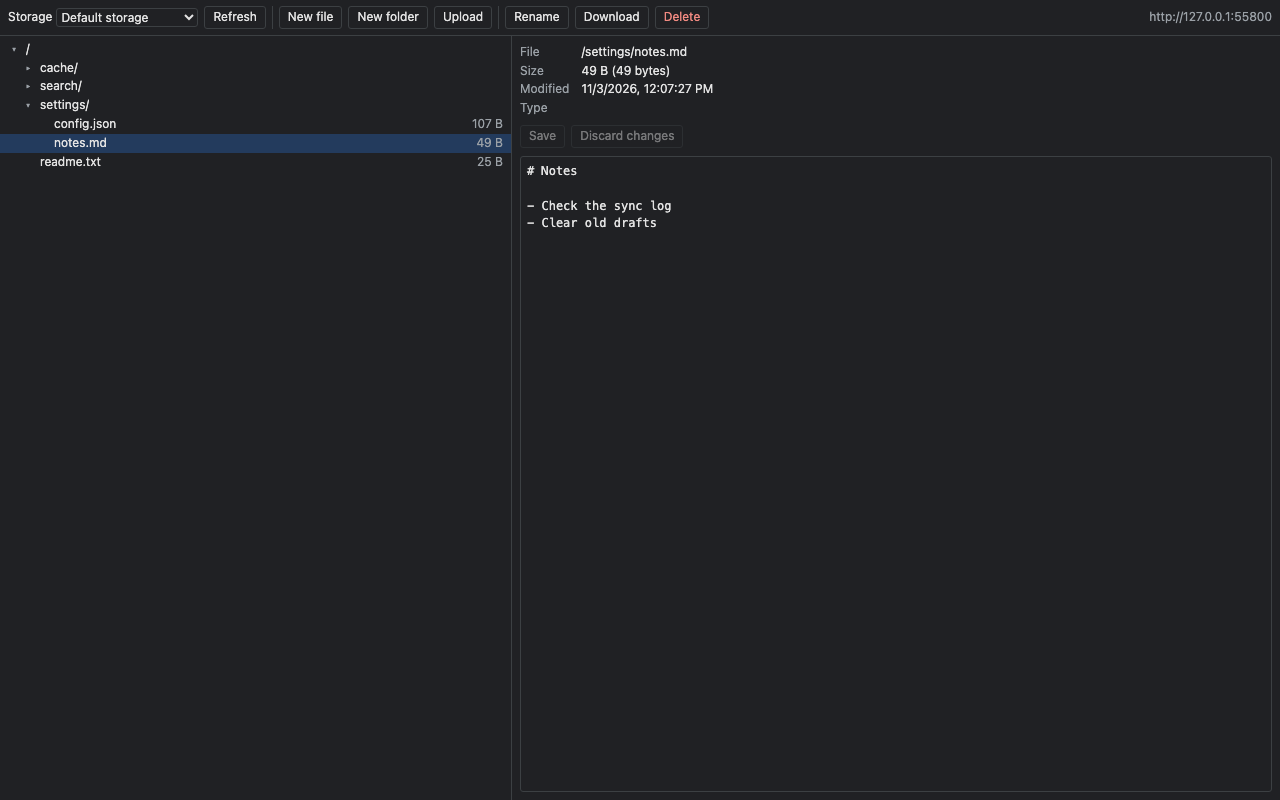
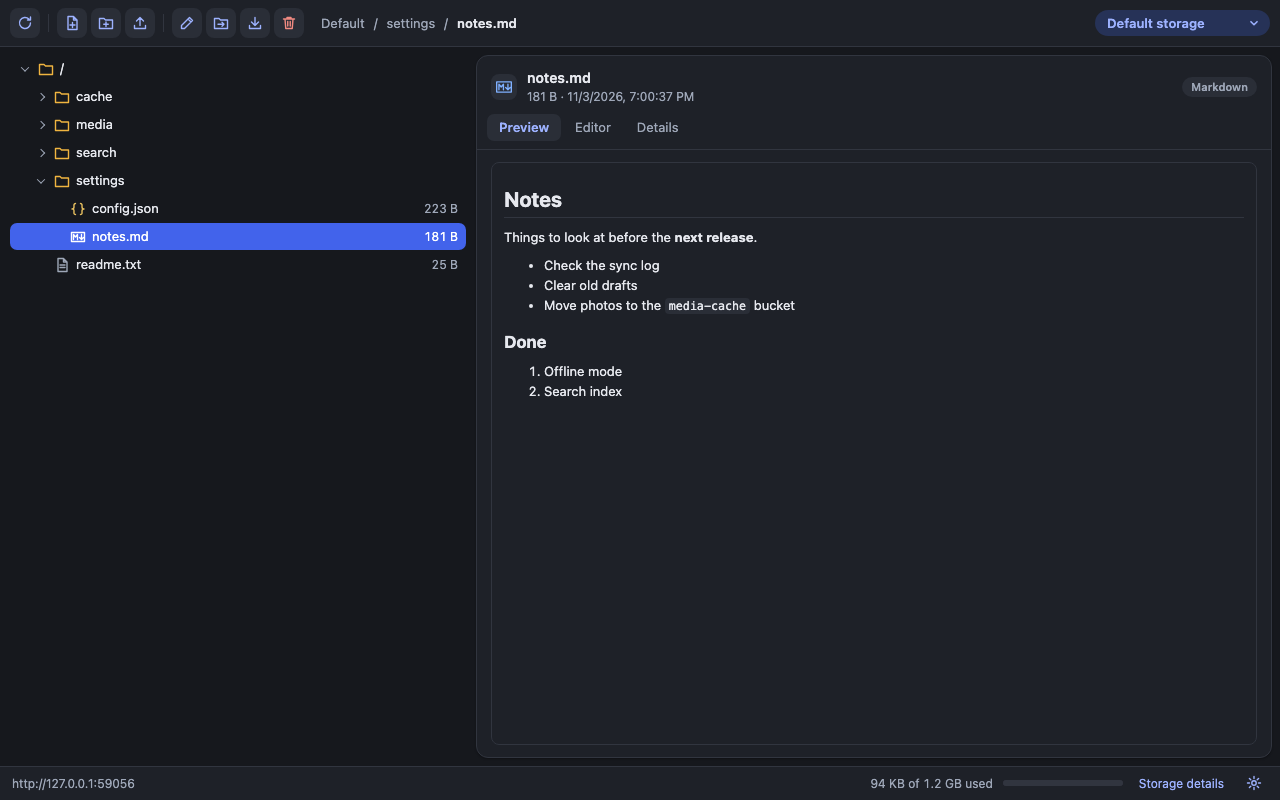
docs: 0.2.0 readme, privacy, store listing and screenshots
Also minifies the build, sets package.json to 0.2.0, and checks the
editor, the SQLite viewer, drag to move and three shortcuts in the
real extension in Chromium and Edge.

diff --git a/README.md b/README.md
@@ -1,23 +1,35 @@
 # OPFS Inspector
 
-A developer tools panel for the [origin private file system](https://developer.mozilla.org/en-US/docs/Web/API/File_System_API/Origin_private_file_system) (OPFS) of the page you are inspecting. It shows the default storage and every [Storage Bucket](https://wicg.github.io/storage-buckets/) of the site, and lets you create, rename, edit, delete, upload and download files.
+A developer tools panel for the [origin private file system](https://developer.mozilla.org/en-US/docs/Web/API/File_System_API/Origin_private_file_system) (OPFS) of the page you are inspecting. It shows the default storage and every [Storage Bucket](https://wicg.github.io/storage-buckets/) of the site. You can browse, edit, preview, move and download files, and look inside SQLite databases.
 
 ![Editing a JSON file in the default storage](docs/editor.png)
 
+![A SQLite table inside a Storage Bucket](docs/sqlite.png)
+
+![An image preview](docs/image.png)
+
 ![Picking a Storage Bucket](docs/picker.png)
 
-![A SQLite database inside a Storage Bucket](docs/bucket.png)
-
-![The panel in dark mode](docs/dark.png)
+![A Markdown preview in dark mode](docs/dark.png)
 
 ## What it does
 
+New in 0.2.0: a new look, a keyboard tree, a real code editor, previews, and a SQLite viewer.
+
 - **Storage picker.** Default storage, plus each bucket from `navigator.storageBuckets.keys()` where the browser has Storage Buckets (Chromium-based browsers). A bucket is only opened if it exists, so the panel never creates one.
-- **Folder tree.** Folders are read one at a time, when you open them. Only that folder's files are read, for their size and date.
-- **Text editor** for UTF-8 files up to 2 MB, with Save and Discard. You cannot leave a file with unsaved changes.
-- **Byte view** for other files, with SQLite databases marked as such.
-- **New file, new folder, rename, delete, upload, download.** Delete asks first. Upload skips names that already exist.
+- **File tree.** Folders are read one at a time, when you open them. Each file has a type icon. Use the arrow keys to move, and Ctrl/Cmd+click or Shift+click to pick several items. Large folders stay fast. A path bar shows where you are.
+- **Editor** for UTF-8 files up to 2 MB, with syntax colours for JSON, JavaScript, CSS, HTML, Markdown and SQL. Save, Discard and Format JSON. You cannot leave a file with unsaved changes.
+- **Previews.** Images, with zoom and rotate. Markdown, shown safely, with no scripts and no outside requests.
+- **SQLite viewer.** Open a database file to see its tables, page through rows, and run read-only queries. It works on a copy taken in memory, including changes still in the `-wal` file. It never writes to the site's files.
+- **File actions.** New file, new folder, rename, duplicate, delete, upload and download. Drag items onto a folder to move them, or use **Move to**. Drop files or folders from your computer to upload them. Several items download as one zip.
+- **Folder sizes and storage details**, including how much each bucket uses.
+- **Keyboard shortcuts and menus.** Right-click an item for its menu. Press `?` to see every shortcut.
+- **Settings** for the JSON indent, key sorting, folder sizes and the editor font size.
 - **Clear errors**, for example when a database has a file open, or when the browser lost track of the site's files after its data was deleted.
+
+### What it does not read
+
+The SQLite viewer reads plain database files, meaning files that start with the SQLite header. It does not read pool layouts, such as `opfs-sahpool` from the official SQLite build or wa-sqlite's `AccessHandlePoolVFS`. It does not read databases kept in IndexedDB either. Those files show as bytes.
 
 ## How it keeps the page light
 
@@ -65,7 +77,7 @@ npm test
 
 - `test/ops.test.mjs`: every file operation, in Chromium, Firefox and WebKit.
 - `test/ui.test.mjs`: the panel, clicked through like a person, in Chromium and Firefox.
-- `test/extension.test.mjs`: the unpacked extension loaded into Chromium and Microsoft Edge, working on a real page's files and bucket. Needs Edge installed; set `ENGINES=chromium` to skip it.
+- `test/extension.test.mjs`: the unpacked extension loaded into Chromium and Microsoft Edge, working on a real page's files and bucket: the editor, the SQLite viewer, drag to move, and some shortcuts. Needs Edge installed; set `ENGINES=chromium` to skip it.
 
 WebKit in Playwright has no working OPFS, so its tests are skipped with the reason. Safari itself has to be checked by hand.
 
@@ -80,7 +92,9 @@ WebKit in Playwright has no working OPFS, so its tests are skipped with the reas
 - `src/background.js`: adds the agent to the page when needed and passes messages.
 - `panel.html`, `panel.css`: the panel page.
 - `panel/`: the panel source, split into modules. `main.js` starts it.
-- `scripts/build.mjs`: bundles `panel/` into `build/` with esbuild. `build/` is git-ignored.
+- `scripts/build.mjs`: bundles and minifies `panel/` into `build/` with esbuild. `build/` is git-ignored.
+- `build/sql-wasm.wasm`: the SQLite engine (sql.js), used only by the SQLite viewer.
+- `build/THIRD_PARTY.txt`: the licences of the libraries bundled into `build/`.
 - `devtools.html`, `devtools.js`: registers the panel.
 
 ## License

diff --git a/store/listing.md b/store/listing.md
@@ -15,14 +15,25 @@ Browse and edit a site's origin private file system, including Storage Buckets, 
 
 OPFS Inspector adds a tab to the developer tools. It shows the origin private file system of the page you are inspecting, including every Storage Bucket in Chrome and Edge.
 
+New in 0.2.0:
+
+- A clean new look, with file type icons, a path bar and storage use.
+- A code editor with syntax colours, and Format JSON.
+- Image and Markdown previews.
+- A read-only SQLite viewer. See tables, page through rows and run queries on a copy of the database. It never changes the site's files.
+- Drag to move, drop files to upload, duplicate, and download several items as a zip.
+- Folder sizes, storage details for each bucket, and settings.
+- Keyboard shortcuts and right-click menus. Press ? to see them all.
+
+It also lets you:
+
 - Pick the default storage or any Storage Bucket of the site.
-- Browse folders one at a time.
-- Edit text files up to 2 MB, with Save and Discard.
-- See other files as bytes, with SQLite databases marked.
 - Create, rename, delete, upload and download files and folders.
-- Clear messages when a database holds a file open.
+- See clear messages when a database holds a file open.
 
 It stays light. Nothing runs in a page until you open the tab, nothing refreshes by itself, and no file handles are kept between actions.
+
+The SQLite viewer reads plain database files. It does not read pool layouts (opfs-sahpool, AccessHandlePoolVFS) or databases kept in IndexedDB.
 
 Open source: https://github.com/darshanp40/opfs-inspector
 
@@ -33,9 +44,11 @@ Lets developers view and edit the origin private file system (OPFS) and Storage 
 - `scripting`: adds a small listener to the inspected page, only when the OPFS Inspector tab is opened for it, so the panel can read and change that page's OPFS files.
 - Host permission (`<all_urls>`): the tab can be opened on any site, and OPFS can only be read from inside that site's own page.
 
-**Remote code:** No. All code is in the package.
+- WebAssembly (`'wasm-unsafe-eval'` in the content security policy): used only by the SQLite viewer, to run the SQLite engine that is in the package. No remote code is loaded.
 
-**Data use:** collects no user data. Tick none of the data types, and confirm the three certifications (no selling, no unrelated use, no credit checks).
+**Remote code:** No. All code is in the package, including the SQLite engine.
+
+**Data use:** collects no user data. It keeps only the panel settings, in the extension's own storage. Tick none of the data types, and confirm the three certifications (no selling, no unrelated use, no credit checks).
 
 **Privacy policy URL:** https://github.com/darshanp40/opfs-inspector/blob/main/PRIVACY.md
 
@@ -43,8 +56,8 @@ Lets developers view and edit the origin private file system (OPFS) and Storage 
 
 **Images:**
 - Icon: `icons/icon-128.png`
-- Screenshots (1280×800): `docs/editor.png`, `docs/picker.png`, `docs/bucket.png`, `docs/dark.png`
+- Screenshots (1280×800): `docs/editor.png`, `docs/sqlite.png`, `docs/image.png`, `docs/picker.png`, `docs/dark.png` (RGB, no alpha)
 - Small promo tile (Chrome, 440×280): `store/promo-440x280.png`
 - Logo (Edge, 300×300): `store/logo-300x300.png`
 
-**Package:** `dist/opfs-inspector-0.1.0.zip` from `npm run package`.
+**Package:** `dist/opfs-inspector-0.2.0.zip` from `npm run package`.

diff --git a/PUBLISHING.md b/PUBLISHING.md
@@ -16,18 +16,25 @@ When you change the code, click the reload icon on the extension's card, then cl
 npm run package
 ```
 
-This makes `dist/opfs-inspector-<version>.zip` with only the files the browser needs. Raise `version` in `manifest.json` (and `package.json`) for each new upload; a store refuses a version it already has.
+This makes `dist/opfs-inspector-<version>.zip` with only the files the browser needs. The code is minified and has no source maps.
+
+For each new upload, raise the version first. A store refuses a version it already has.
+
+1. Set `version` in `manifest.json`.
+2. Run `npm version <new version> --no-git-tag-version`. This sets the same version in `package.json` and `package-lock.json`.
+3. Run `npm run package` and check the zip name has the new version.
 
 ## 3. What every store asks for
 
 - **Description**: the first paragraph of the README works.
 - **Ready-made listing text and images**: [store/listing.md](store/listing.md). `node scripts/store-images.mjs` remakes the promo tile and logo.
-- **Screenshots**: at least one of the panel in use, 1280×800 or 640×400 for Chrome.
+- **Screenshots**: at least one of the panel in use, 1280×800 or 640×400 for Chrome, with no alpha channel. `node scripts/screenshots.mjs` remakes the ones in `docs/`.
 - **Icon**: 128×128, from `icons/icon-128.png`. A more polished icon is worth making before a public listing.
-- **Privacy**: the extension collects no data and sends nothing anywhere. Where a store asks for a privacy policy, link to [PRIVACY.md](PRIVACY.md).
+- **Privacy**: the extension collects no data and sends nothing anywhere. It keeps only the panel settings, in its own storage. Where a store asks for a privacy policy, link to [PRIVACY.md](PRIVACY.md).
 - **Permission reasons**, which reviewers read:
   - `scripting`: to add a small listener to the inspected page, only when the developer tools panel is opened for it, so the panel can read and change that page's OPFS files.
   - Access to all sites (`<all_urls>`): the panel can be opened on any site, and OPFS can only be read from inside the site's own page.
+  - WebAssembly (`'wasm-unsafe-eval'`): only for the SQLite viewer, which runs the SQLite engine from the package. No remote code.
 
 ## 4. Chrome Web Store
 

diff --git a/PRIVACY.md b/PRIVACY.md
@@ -2,4 +2,6 @@
 
 OPFS Inspector collects no data and sends nothing anywhere.
 
-It reads and changes files in the origin private file system of the page you inspect, only when you open its panel in the developer tools and act in it. Everything stays in your browser. It has no analytics, no network requests and no storage of its own.
+It reads and changes files in the origin private file system of the page you inspect, only when you open its panel in the developer tools and act in it. Everything stays in your browser. It has no analytics and makes no network requests.
+
+It keeps only your panel settings, in the extension's own storage. When you open a SQLite database, the copy it reads is kept in memory only, and is gone when you close the panel.
